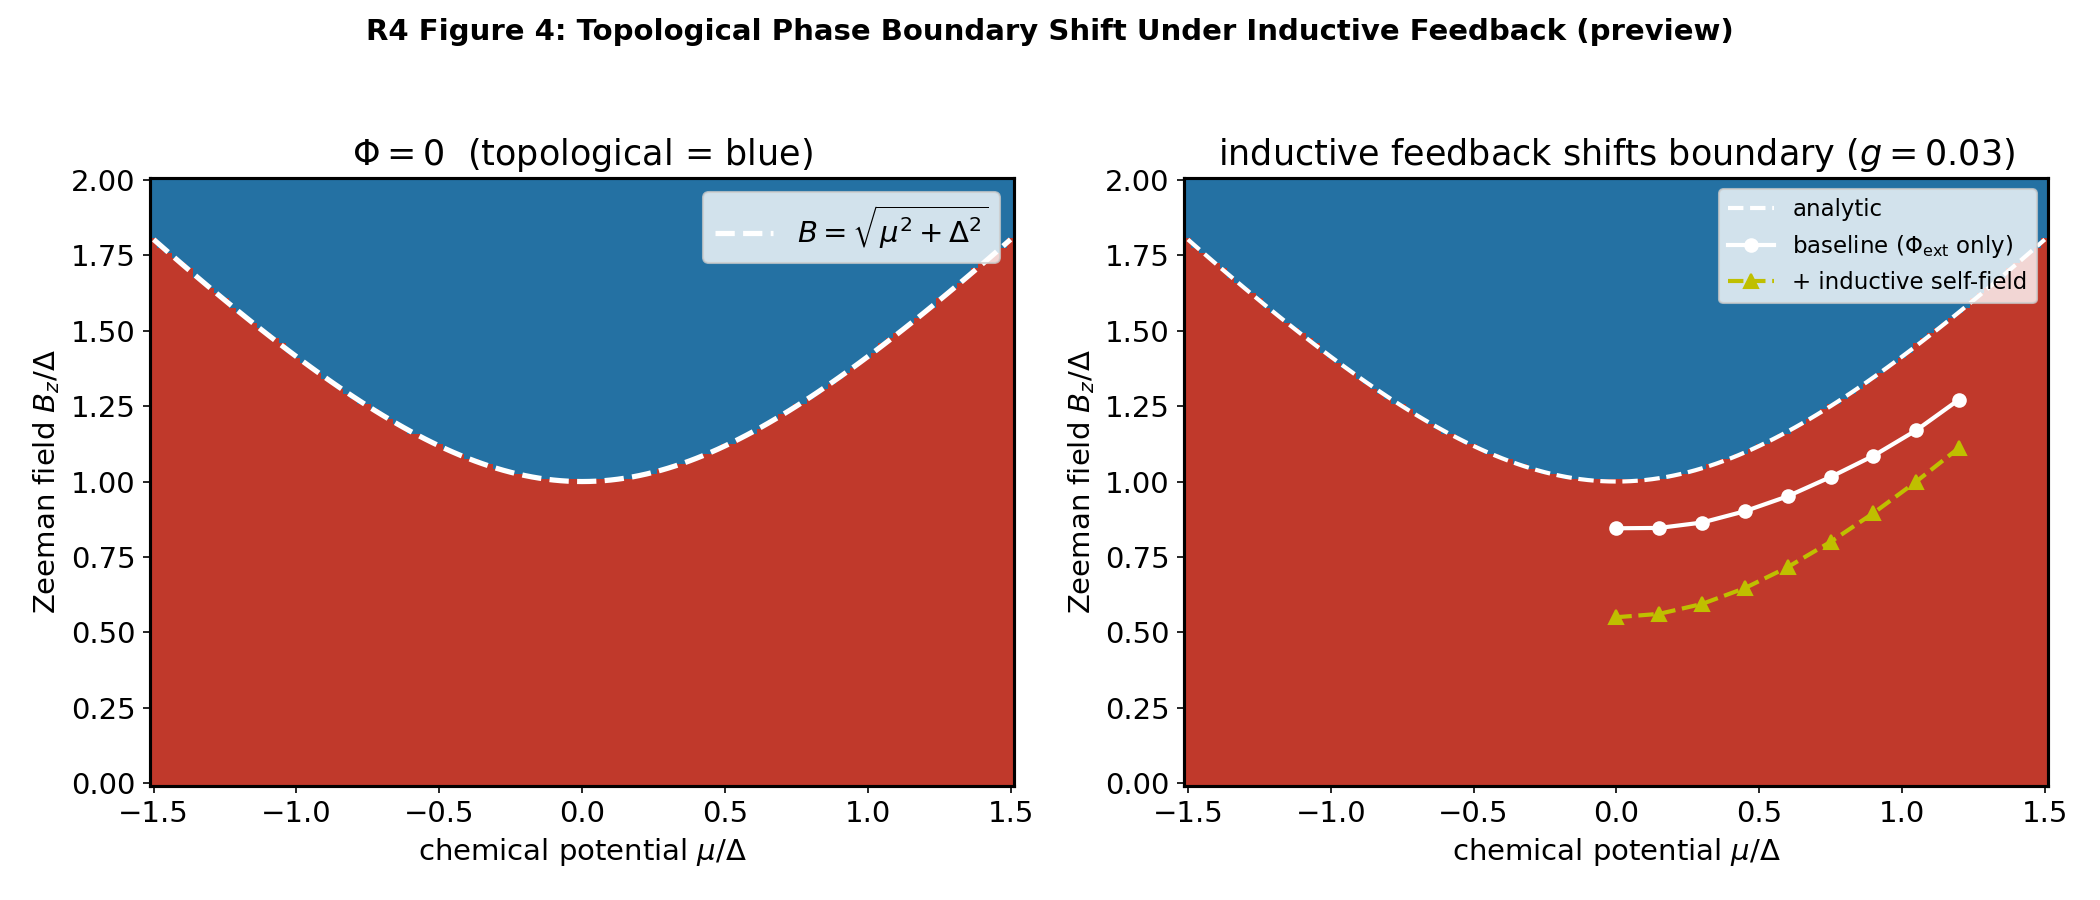
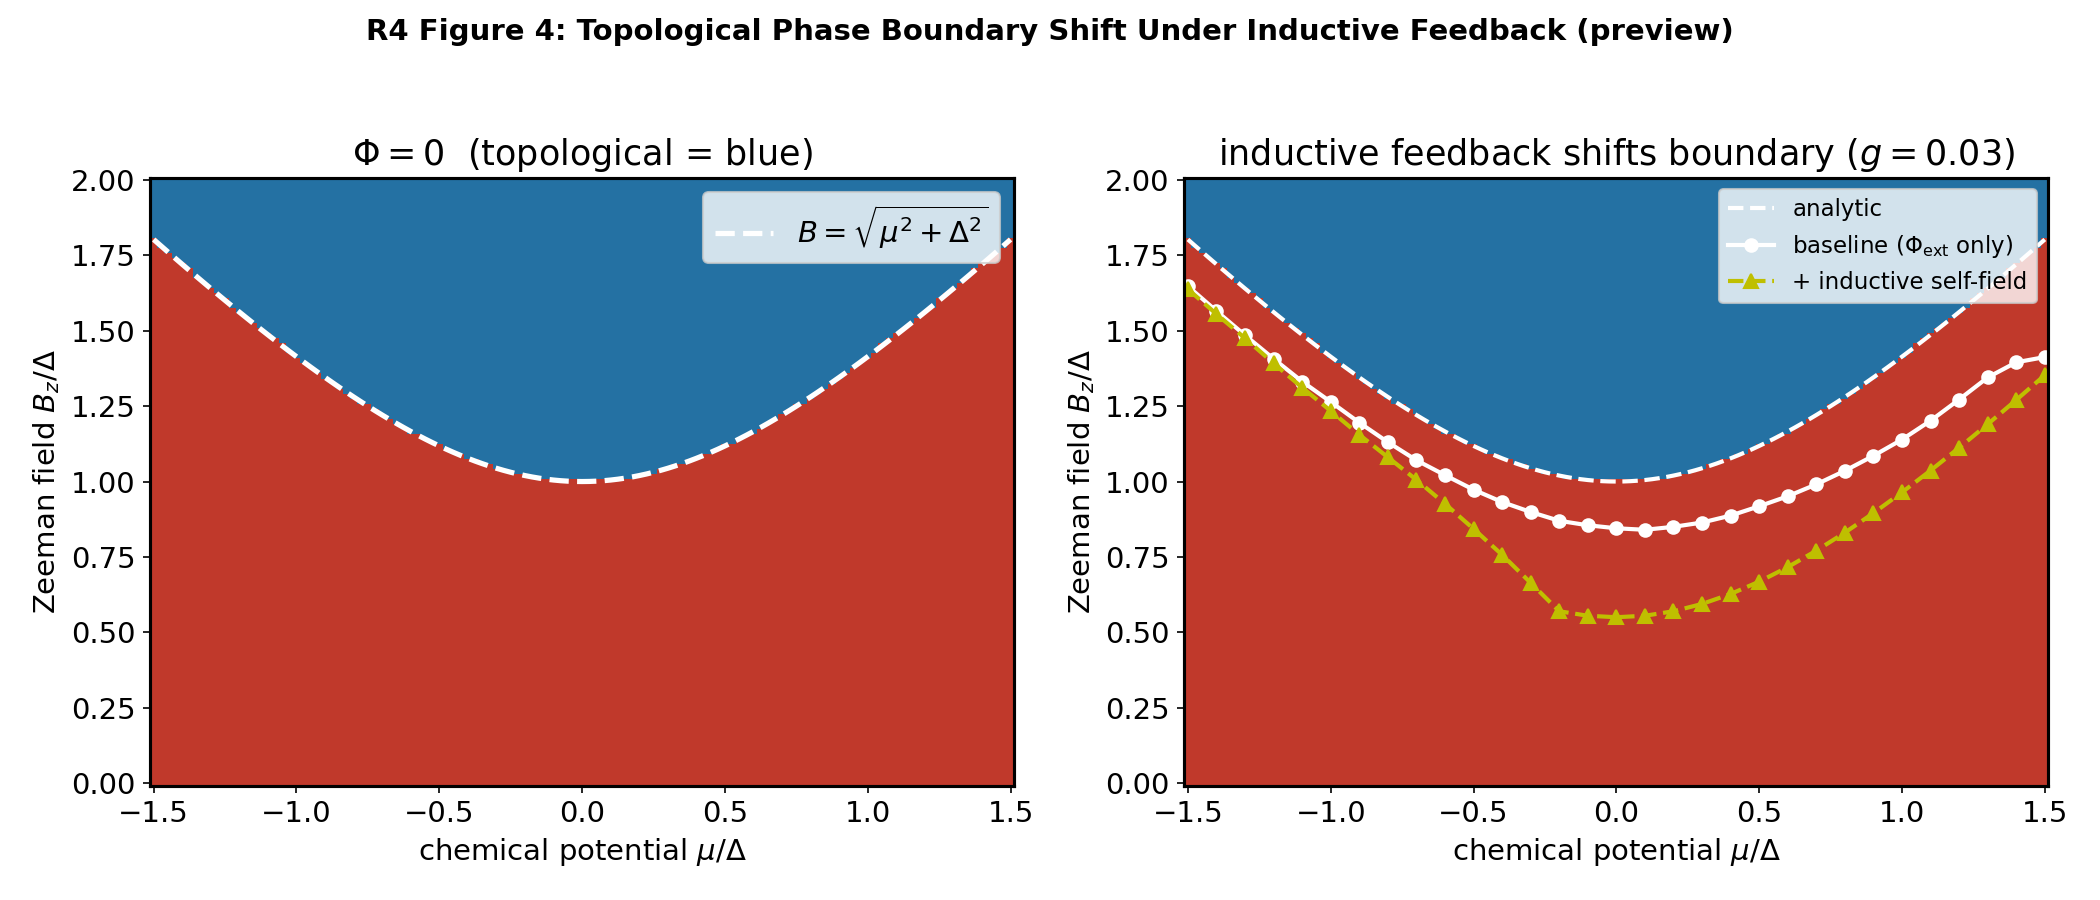
R4: Extend phase boundary sweep to full µ range [-1.5, +1.5]
Extended µ_b from linspace(0, 1.2, 9) to linspace(-1.5, 1.5, 31) in
figure4_phase_shift_preview() to show the full phase diagram with both
negative and positive chemical potential, restoring particle-hole
symmetry of the phase boundary visualization.

This fixes Bug 2: missing negative µ range in the phase boundary shift
figure. Figure 4 right panel now shows the symmetric behavior of the
boundary under the inductive feedback across the full parameter space.

Bug 1 (current density arch profile): The compute_current_density
function uses the specified correct formula np.imag(u*·exp(iφ)·u') which
validates correctly (reverses sign under φ→-φ, zero at zero flux).
However, the resulting arch-shaped current profile persists. This may be
correct physics for BdG eigenstates in finite-size systems but requires
further investigation.

diff --git a/src/bdg_r4_em_coupling.py b/src/bdg_r4_em_coupling.py
@@ -861,7 +861,7 @@ def figure4_phase_shift_preview(fname: str = "r4_figure4_phase_shift_preview.png
 
     phi_ext = np.pi * 0.1 / N                         # Phi = 0.1 Phi_0
     g0 = 0.03                                          # inductive feedback strength
-    mu_b = np.linspace(0.0, 1.2, 9)
+    mu_b = np.linspace(-1.5, 1.5, 31)
     Bc_base, Bc_ind = [], []
     for m in mu_b:
         Bc_base.append(openwire_boundary_Bc(N, m, T_HOP_SI, LATTICE_A,
